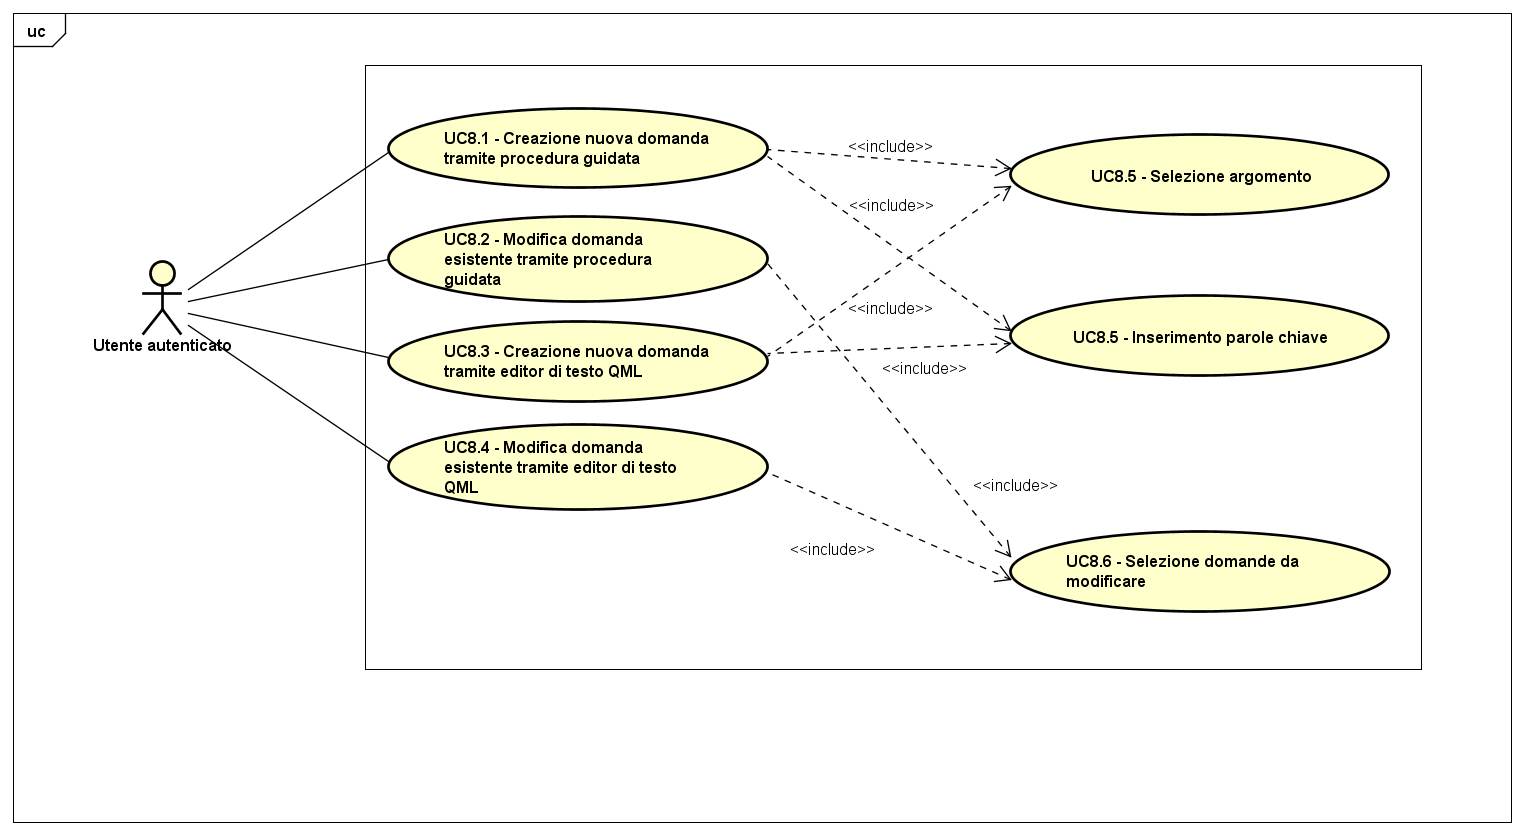
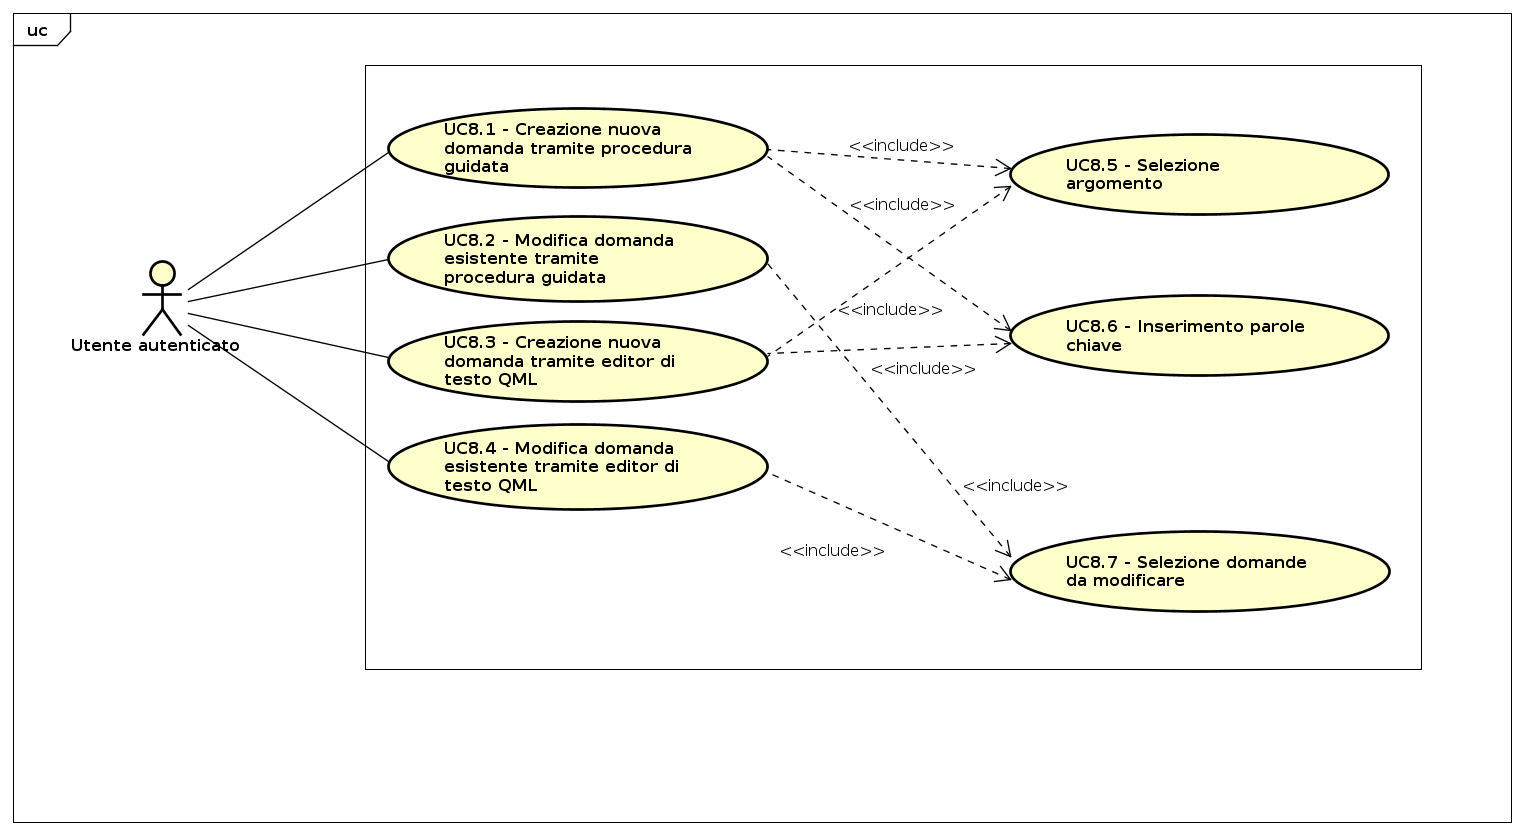
modifiche UC8

diff --git a/RP/DefinizioneDiProdotto/sezioni/Back-End/Models/QuestionModel.tex b/RP/DefinizioneDiProdotto/sezioni/Back-End/Models/QuestionModel.tex
@@ -55,7 +55,7 @@
 						\end{enumerate}      
 						\item \texttt{attributesForSorting} di tipo \texttt{Mixed}, contiene i seguenti attributi:
         					\begin{enumerate}
-        						\item \texttt{position} di tipo \texttt{Boolean}, rappresenta quale è la giusta posizione di un testo o immagine all'interno di un esercizio di ordinamento.
+        						\item \texttt{position} di tipo \texttt{Number}, rappresenta quale è la giusta posizione di un testo o immagine all'interno di un esercizio di ordinamento.
 						\end{enumerate}  
 							\item \texttt{attributesForLinking} di tipo \texttt{Mixed}, contiene i seguenti attributi:
         					\begin{enumerate}

diff --git a/RR/AnalisiDeiRequisiti/sezioni/CasiD'uso/CasoD'usoUC12.tex b/RR/AnalisiDeiRequisiti/sezioni/CasiD'uso/CasoD'usoUC12.tex
@@ -1,12 +1,12 @@
 \newpage
 \subsection{Caso d'uso UC12: Risposta ad una domanda}
 \label{UC12}
-\begin{figure}[h]
+\begin{figure}[ht]
 	\centering
 	\includegraphics[scale=0.5]{UML/UC12.png}
 	\caption{UC12: Risposta ad una domanda}
 \end{figure}
-
+\FloatBarrier
 \begin{itemize}
 \item \textbf{Attori}: utente non autenticato, utente autenticato, utente autenticato pro;
 \item \textbf{Descrizione}: l'attore può rispondere alla domanda che viene visualizzata in modo diverso in base alla tipologia corrispondente;

diff --git a/RR/AnalisiDeiRequisiti/sezioni/CasiD'uso/CasoD'usoUC1.tex b/RR/AnalisiDeiRequisiti/sezioni/CasiD'uso/CasoD'usoUC1.tex
@@ -2,12 +2,12 @@
 \subsection{Caso d'uso UC1: Scenario principale}
 
 \label{UC1}
-\begin{figure}
+\begin{figure}[ht]
 	\centering
 	\includegraphics[scale=0.45]{UML/UC1.png}
 	\caption{UC1: Scenario principale}
 \end{figure}
-
+\FloatBarrier
 \begin{itemize}
 \item\textbf{Attori}: utente non autenticato, utente autenticato, utente autenticato pro;
 \item\textbf{Descrizione}: nella schermata principale un utente non autenticato può autenticarsi tramite l'apposito form di login oppure registrarsi.\\

diff --git a/RR/AnalisiDeiRequisiti/sezioni/CasiD'uso/CasoD'usoUC2.tex b/RR/AnalisiDeiRequisiti/sezioni/CasiD'uso/CasoD'usoUC2.tex
@@ -1,10 +1,11 @@
 \newpage
 \subsection{Caso d'uso UC2: Registrazione}
 \label{UC2}
-\begin{figure}
+\begin{figure}[ht]
 	\includegraphics[scale=0.45]{UML/UC2.png}
 	\caption{UC2: Registrazione}
 \end{figure}
+\FloatBarrier
 \begin{itemize}
 \item \textbf{Attori}: utente non autenticato;
 \item \textbf{Descrizione}: per poter usufruire dei servizi forniti dalla piattaforma, l'attore deve registrarsi inserendo email e password;

diff --git a/RR/AnalisiDeiRequisiti/sezioni/CasiD'uso/CasoD'usoUC11.tex b/RR/AnalisiDeiRequisiti/sezioni/CasiD'uso/CasoD'usoUC11.tex
@@ -1,12 +1,12 @@
 \newpage
 \subsection{Caso d'uso UC11: Visualizzazione pagina utente}
 \label{UC11}
-\begin{figure}[h]
+\begin{figure}[ht]
 	\centering
 	\includegraphics[scale=0.40]{UML/UC11.png}
 	\caption{UC11: Gestione pagina utente}
 \end{figure}
-
+\FloatBarrier
 \begin{itemize}
 \item\textbf{Attori}: utente autenticato, utente autenticato pro;
 \item\textbf{Descrizione}: da questa pagina l'attore può: 

diff --git a/RR/AnalisiDeiRequisiti/sezioni/CasiD'uso/CasoD'usoUC8.tex b/RR/AnalisiDeiRequisiti/sezioni/CasiD'uso/CasoD'usoUC8.tex
@@ -1,7 +1,7 @@
 \newpage
 \subsection{Caso d'uso UC8: Gestione delle domande}
 	\label{UC8}
-	\begin{figure}[h]
+	\begin{figure}[ht]
 		\centering
 			\includegraphics[scale=0.45,keepaspectratio]{UML/UC8.png}
 		\caption{UC8: Gestione delle domande}

diff --git a/RR/AnalisiDeiRequisiti/sezioni/CasiD'uso/CasoD'usoUC9.tex b/RR/AnalisiDeiRequisiti/sezioni/CasiD'uso/CasoD'usoUC9.tex
@@ -1,7 +1,7 @@
 \newpage
 \subsection{Caso d'uso UC9: Gestione dei questionari}
 \label{UC9}
-\begin{figure}[h]
+\begin{figure}[ht]
 	\centering
 	\includegraphics[scale=0.445,keepaspectratio]{UML/UC9.png}
 	\caption{UC9: Gestione dei questionari}

diff --git a/RR/AnalisiDeiRequisiti/sezioni/CasiD'uso/CasoD'usoUC19.tex b/RR/AnalisiDeiRequisiti/sezioni/CasiD'uso/CasoD'usoUC19.tex
@@ -1,7 +1,7 @@
 \newpage
 \subsection{Caso d'uso UC19: Iscrizione questionario}
 \label{UC19}
-\begin{figure}[h]
+\begin{figure}[ht]
 \centering
 \includegraphics[scale=0.5,keepaspectratio]{UML/UC19.png}
 \caption{UC19: Iscrizione questionario}

diff --git a/RR/AnalisiDeiRequisiti/sezioni/CasiD'uso/CasoD'usoUC7.tex b/RR/AnalisiDeiRequisiti/sezioni/CasiD'uso/CasoD'usoUC7.tex
@@ -1,7 +1,7 @@
 \newpage
 \subsection{Caso d'uso UC7: Compilazione questionario}
 \label{UC7}
-\begin{figure}[h]
+\begin{figure}[ht]
 \centering
 \includegraphics[scale=0.5,keepaspectratio]{UML/UC7.png}
 \caption{UC7: Compilazione questionario}

diff --git a/RR/AnalisiDeiRequisiti/sezioni/CasiD'uso/CasoD'usoUC5.tex b/RR/AnalisiDeiRequisiti/sezioni/CasiD'uso/CasoD'usoUC5.tex
@@ -2,7 +2,7 @@
 \subsection{Caso d'uso UC5: Gestione profilo utente}
 
 \label{UC5}
-\begin{figure}[h]
+\begin{figure}[ht]
 	\centering
 	\includegraphics[scale=0.5,keepaspectratio]{UML/UC5.png}
 	\caption{UC5: Gestione profilo utente}

diff --git a/RR/AnalisiDeiRequisiti/sezioni/CasiD'uso/CasoD'usoUC10.tex b/RR/AnalisiDeiRequisiti/sezioni/CasiD'uso/CasoD'usoUC10.tex
@@ -1,7 +1,7 @@
 \newpage
 \subsection{Caso d'uso UC10: Modalità allenamento}
 \label{UC10}
-	\begin{figure}
+	\begin{figure}[ht]
 	\centering
 	\includegraphics[scale=0.5]{UML/UC10.png}
 	\caption{UC10: Modalità allenamento}

diff --git a/RR/AnalisiDeiRequisiti/sezioni/CasiD'uso/CasoD'usoUC14.tex b/RR/AnalisiDeiRequisiti/sezioni/CasiD'uso/CasoD'usoUC14.tex
@@ -1,7 +1,7 @@
 \newpage
 \subsection{Caso d'uso UC14: Login con Facebook}
 \label{UC14}
-\begin{figure}
+\begin{figure}[ht]
 	\centering
 	\includegraphics[scale=0.48]{UML/UC14.png}
 	\caption{UC14: Login da Facebook}
